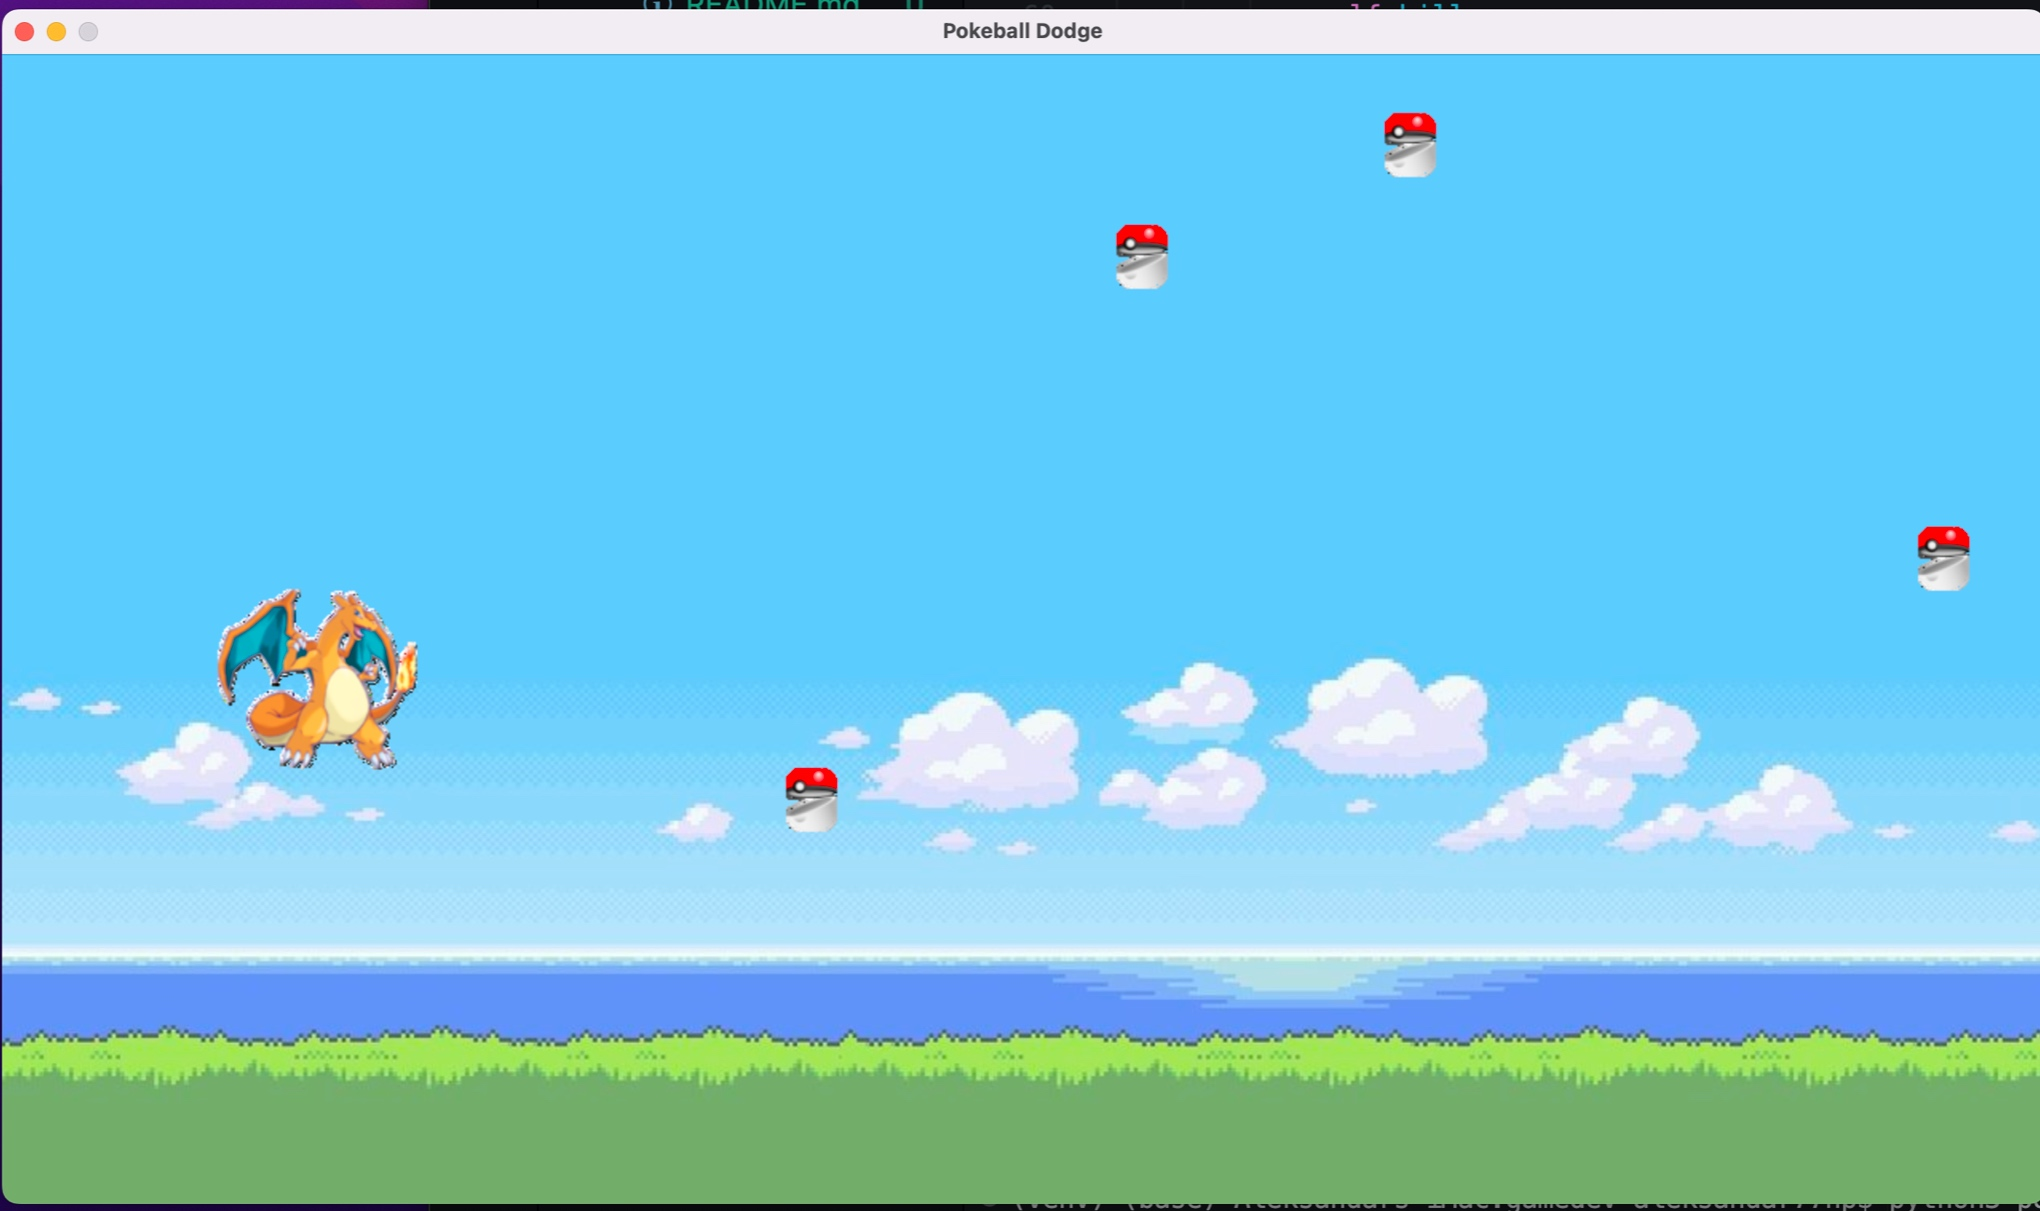
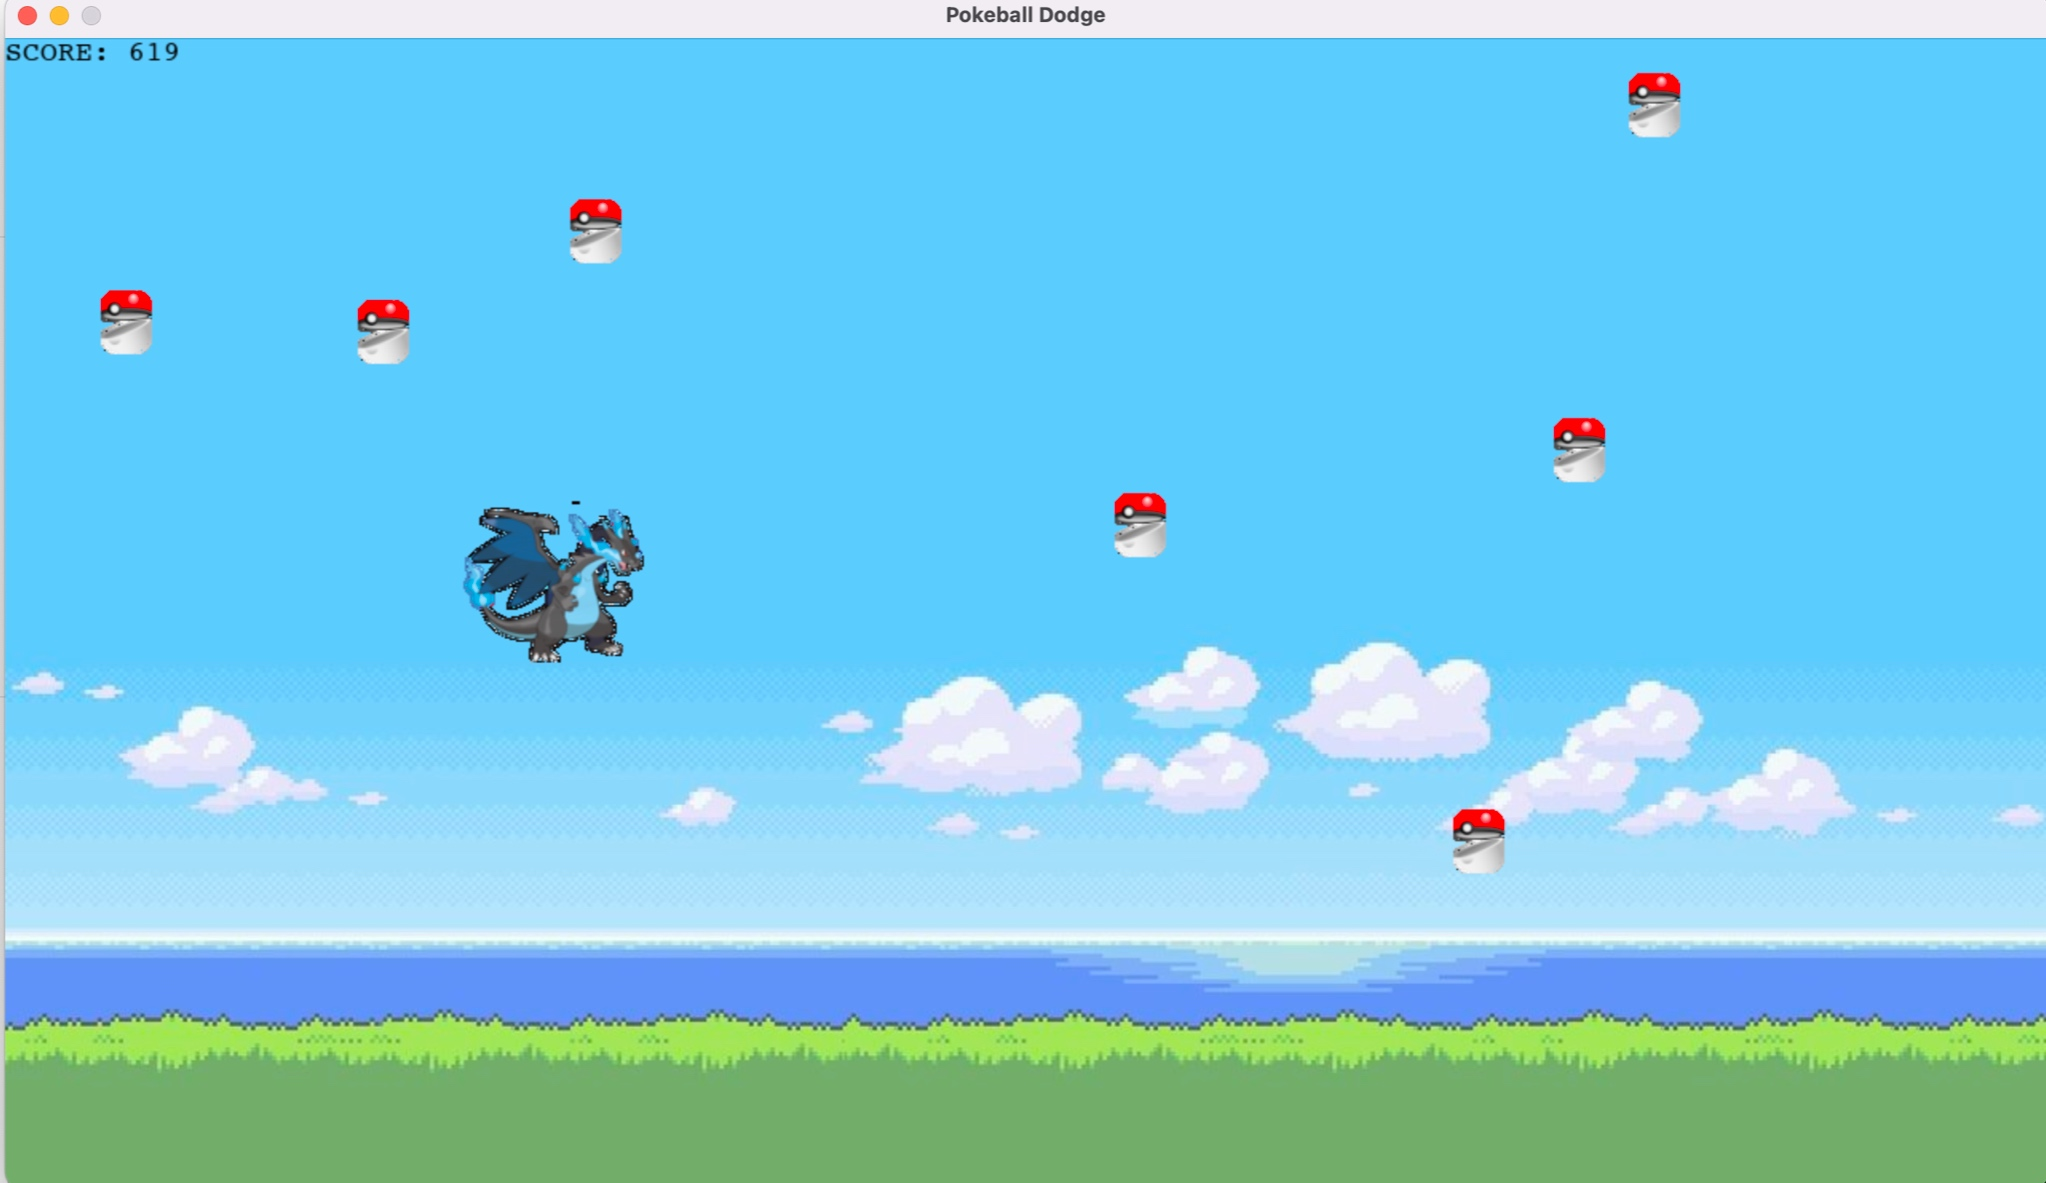
Add player score

diff --git a/pokemon.py b/pokemon.py
@@ -60,10 +60,20 @@ class Pokeball(pygame.sprite.Sprite):
             self.kill
 
 
+# calculate score based on time passed
+def get_game_score(start_time):
+    counting_time = int((pygame.time.get_ticks() - start_time) / 10)
+    return f"SCORE: {str(counting_time)}"
+
+
 pygame.mixer.init()
 pygame.init()
 
 pygame.display.set_caption("Pokeball Dodge")
+
+font = pygame.font.SysFont("monospace", 18)
+clock = pygame.time.Clock()
+game_start_time = pygame.time.get_ticks()
 
 # add background music johto
 pygame.mixer.music.load("music/Johto.mp3")
@@ -105,12 +115,15 @@ while running:
     # update player movement
     pressed_keys = pygame.key.get_pressed()
     player.update(pressed_keys)
-
     enemies.update()
 
     # screen.fill((0, 0, 0))
-
     screen.blit(background, (0, 0))
+
+    # update game score
+    score_string = get_game_score(game_start_time)
+    score_text = font.render(str(score_string), True, (0, 0, 0))
+    screen.blit(score_text, (0, 0))
 
     for entity in all_sprites:
         screen.blit(entity.surf, entity.rect)
